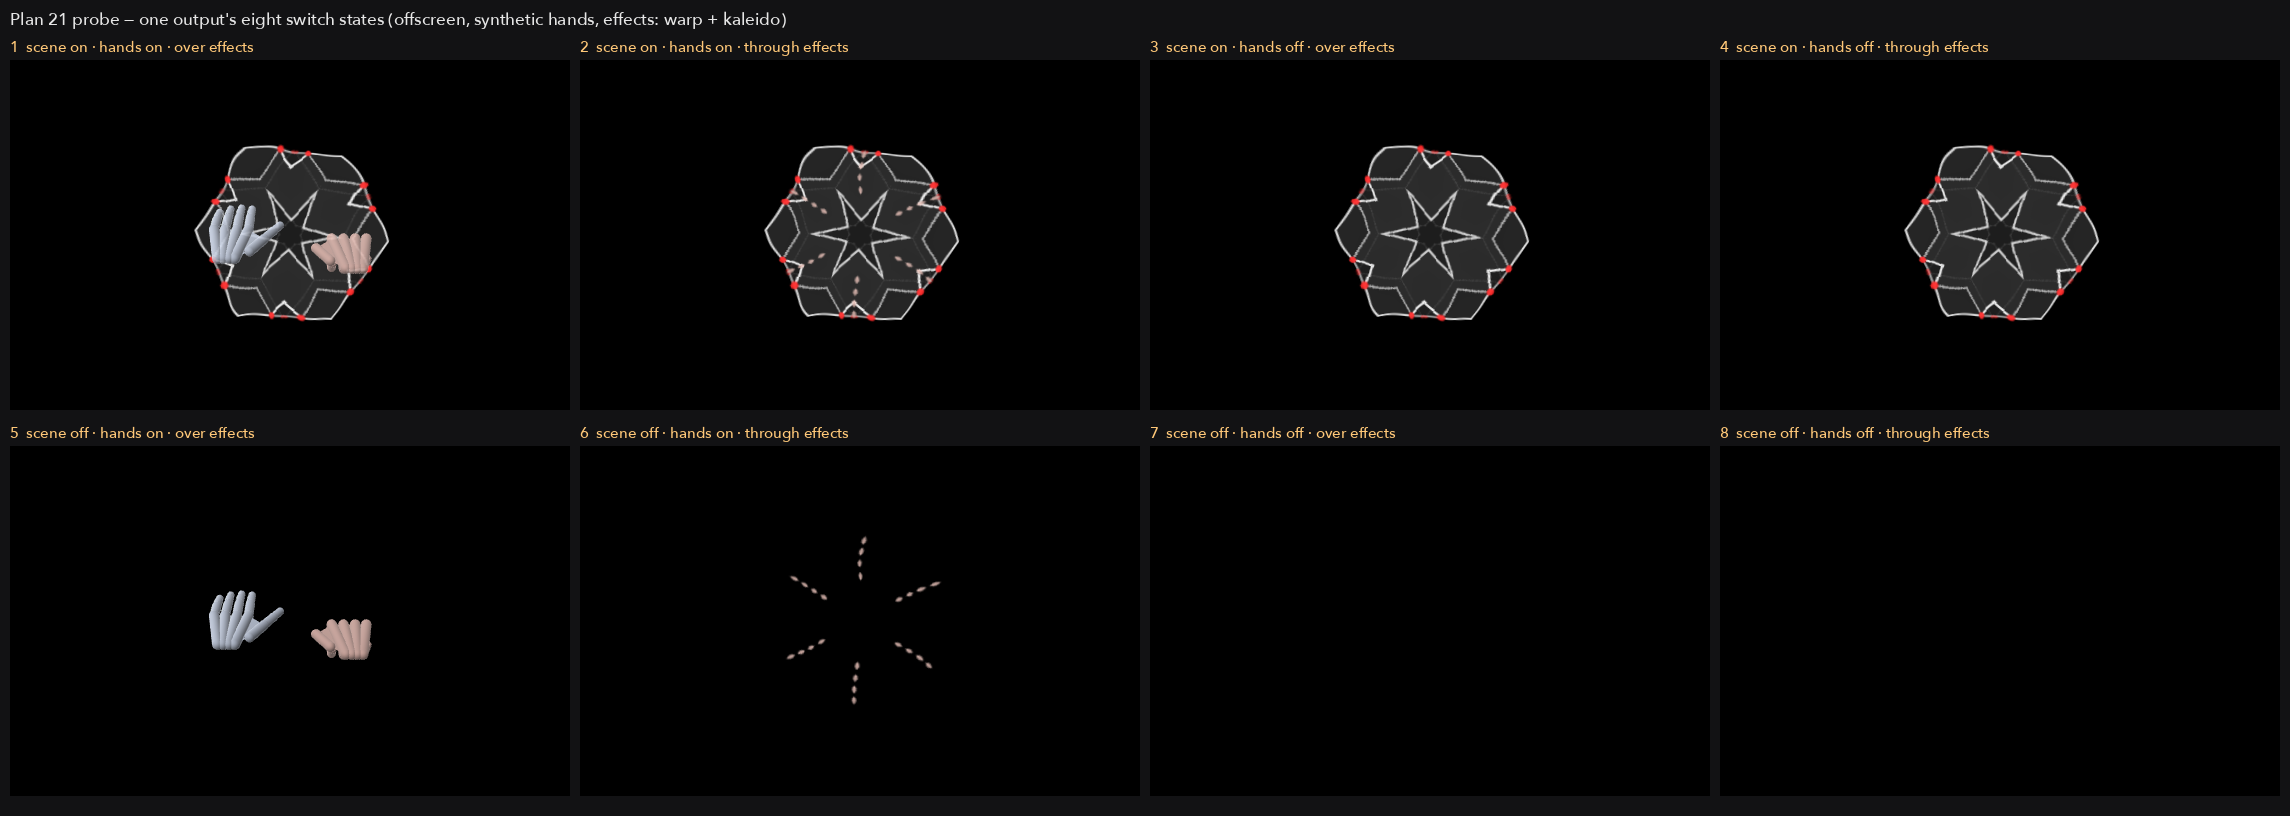
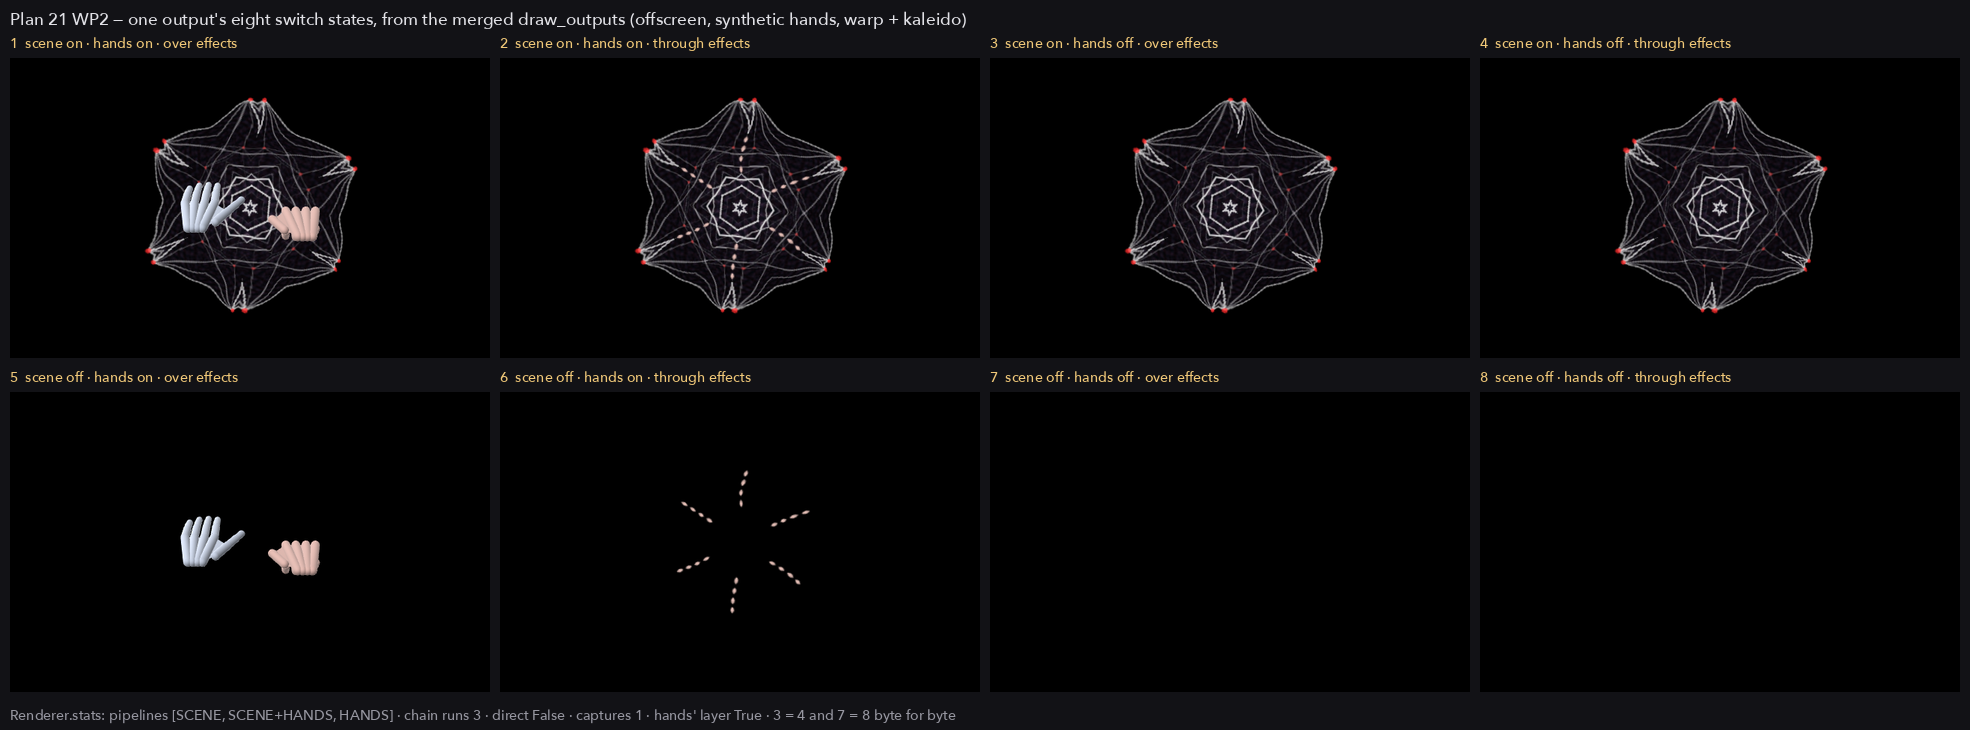
Plan 21 WP2 demo: eight-states.png from the merged code, through-two-outputs.png, compose-timing.txt
eight-states.png replaces the plan's probe render: one output's eight
states drawn by draw_outputs (warp + kaleido, synthetic hands). The
glass with the hands over beside the projector with them through, guide
beside each hand (unbent on both). Frame time at 1080p on this M3 Max.

diff --git a/hyperspace-python/tools/outputs_shots.py b/hyperspace-python/tools/outputs_shots.py
@@ -9,6 +9,9 @@ projector is involved: the sheets show what the renderer writes into
 each output's framebuffer, not how it looks on the rig.
 
     uv run python tools/outputs_shots.py compose   # WP1: outputs-compose.png
+    uv run python tools/outputs_shots.py eight     # WP2: eight-states.png
+    uv run python tools/outputs_shots.py through   # WP2: through-two-outputs.png
+    uv run python tools/outputs_shots.py timing    # WP2: compose-timing.txt
 
 writes into docs/plans/assets/21-outputs-and-the-hands/.
 """
@@ -45,21 +48,31 @@ INK = (225, 225, 230)
 DIM_INK = (150, 150, 160)
 
 
-def hands() -> NS:
-    """Two synthetic hands, as tests/test_ghost.py feeds the ghost."""
+def hands(guide: bool = False) -> NS:
+    """Two synthetic hands, as tests/test_ghost.py feeds the ghost; with
+    `guide`, the axes a guide reads (a HandsIO with no camera)."""
     sk = {"left": skeleton(hand("left", "open", (-90.0, 210.0, 0.0))),
           "right": skeleton(hand("right", "fist", (90.0, 200.0, 10.0)))}
-    return NS(skeleton=sk, cfg={"mode": "desktop"})
+    if not guide:
+        return NS(skeleton=sk, cfg={"mode": "desktop"})
+    from hyperspace.hands import HandSettings, HandsIO
+
+    io = HandsIO(HandSettings.from_config({}), {}, source=NS(latest=lambda: (0, 0.0, {})),
+                 out=NS(send=lambda m: None))
+    for st in io.state:
+        st.follow.y = 0.7
+    return NS(skeleton=sk, cfg={"mode": "desktop"}, axes=io.axes, state=io.state,
+              gates=io.gates)
 
 
-def renderer(ctx, effects=("warp",), **values) -> Renderer:
+def renderer(ctx, effects=("warp",), guide=0, **values) -> Renderer:
     fx = FxState()
     for n in effects:
         fx.values[n]["on"] = True
         fx.values[n].update(values.get(n, {}))
     r = Renderer(ctx, fx=fx)
-    r.ghost.state.on, r.ghost.state.alpha = True, 1.0
-    r.ghost.source = hands()
+    r.ghost.state.on, r.ghost.state.alpha, r.ghost.state.guide = True, 1.0, guide
+    r.ghost.source = hands(guide=bool(guide))
     return r
 
 
@@ -134,13 +147,127 @@ def compose(ctx) -> Path:
     return path
 
 
+EIGHT = [O.Switches(scene=a, hands=b, through=c)
+         for a in (True, False) for b in (True, False) for c in (False, True)]
+
+
+def _state_label(k: int, sw: O.Switches) -> str:
+    return (f"{k}  scene {'on' if sw.scene else 'off'} · hands {'on' if sw.hands else 'off'}"
+            f" · {'through' if sw.through else 'over'} effects")
+
+
+def eight(ctx) -> Path:
+    """One output's eight switch states, drawn as eight outputs of one
+    frame by draw_outputs (warp + kaleido on)."""
+    tw, th = FW * 3 // 4, FH * 3 // 4
+    pad, head = 10, 24
+    small, title = _font(14), _font(17)
+    r = renderer(ctx, effects=("warp", "kaleido"))
+    views = [O.View(sw, (FW, FH), target=target(ctx, (FW, FH))) for sw in EIGHT]
+    frames(ctx, r, views)
+    sheet = Image.new("RGB", (pad + 4 * (tw + pad), 34 + 2 * (head + th + pad) + 28), BG)
+    d = ImageDraw.Draw(sheet)
+    d.text((pad, 8), "Plan 21 WP2 — one output's eight switch states, from the merged "
+           "draw_outputs (offscreen, synthetic hands, warp + kaleido)", fill=INK, font=title)
+    for k, v in enumerate(views):
+        x, y = pad + (k % 4) * (tw + pad), 34 + (k // 4) * (head + th + pad)
+        d.text((x, y), _state_label(k + 1, v.switches), fill=(240, 200, 120), font=small)
+        sheet.paste(pixels(v.target).resize((tw, th), Image.LANCZOS), (x, y + head))
+    d.text((pad, sheet.height - 24), stats_line(r) + " · 3 = 4 and 7 = 8 byte for byte",
+           fill=DIM_INK, font=small)
+    path = OUT / "eight-states.png"
+    sheet.save(path)
+    return path
+
+
+def through(ctx) -> Path:
+    """The glass with the hands over the effects beside the projector with
+    them through, guide on (beside each hand: never bent, fork F3)."""
+    pad, head = 14, 26
+    small, title = _font(14), _font(17)
+    r = renderer(ctx, effects=("warp", "kaleido"), guide=1)
+    glass = O.View(O.Switches(), (FW, FH), target=target(ctx, (FW, FH)))
+    proj = O.View(O.Switches(through=True), (FW, FH), target=target(ctx, (FW, FH)))
+    frames(ctx, r, [glass, proj])
+    sheet = Image.new("RGB", (pad + 2 * (FW + pad), 34 + head + FH + 40), BG)
+    d = ImageDraw.Draw(sheet)
+    d.text((pad, 8), "Plan 21 WP2 — glass: hands over the effects · projector: hands through "
+           "them (offscreen, synthetic hands, warp + kaleido, guide beside)", fill=INK,
+           font=title)
+    for k, (v, lab) in enumerate(((glass, "output 1 'glass' — hands over the effects"),
+                                  (proj, "output 2 'projector' — hands through the effects"))):
+        x = pad + k * (FW + pad)
+        d.text((x, 34), lab, fill=(240, 200, 120), font=small)
+        sheet.paste(pixels(v.target), (x, 34 + head))
+    d.text((pad, 34 + head + FH + 10), stats_line(r) + f" · readout layer {r.stats['readout']}",
+           fill=DIM_INK, font=small)
+    path = OUT / "through-two-outputs.png"
+    sheet.save(path)
+    return path
+
+
+def timing(ctx, n: int = 120) -> Path:
+    """Frame time at 1920×1080 (the first output 4× MSAA, as the window
+    is): one default view, two that agree, two that disagree (hands over
+    vs through). Median and 90th percentile of `n` frames, each ended by
+    ctx.finish(), after 20 warm-up frames."""
+    import platform
+    import statistics
+    import subprocess
+    import time
+
+    size = (1920, 1080)
+
+    def fb(samples):
+        return ctx.framebuffer(color_attachments=[ctx.renderbuffer(size, 4, samples=samples)])
+
+    cases = [
+        ("one view, default (Renderer.draw's path)", [O.Switches()]),
+        ("two views agreeing (scene + hands over)", [O.Switches(), O.Switches()]),
+        ("two views disagreeing (hands over | hands through)",
+         [O.Switches(), O.Switches(through=True)]),
+    ]
+    try:
+        chip = subprocess.run(["sysctl", "-n", "machdep.cpu.brand_string"], capture_output=True,
+                              text=True, check=False).stdout.strip()
+    except OSError:
+        chip = platform.processor()
+    lines = [f"Plan 21 WP2 — compose timing, {size[0]}×{size[1]}, {chip}, GL renderer "
+             + ctx.info["GL_RENDERER"],
+             ("standalone context, offscreen targets (first 4x MSAA, others single-sampled), "
+              "warp + kaleido on, two synthetic hands; ms per frame, each frame ended by "
+              f"glFinish; {n} frames after 20 warm-up"), ""]
+    for label, sws in cases:
+        r = renderer(ctx, effects=("warp", "kaleido"))
+        views = [O.View(sw, size, target=fb(4 if k == 0 else 0)) for k, sw in enumerate(sws)]
+        s = view_state()
+        times = []
+        for k in range(n + 20):
+            s.ang = [a + 0.01 for a in s.ang]
+            t0 = time.perf_counter()
+            r.draw_outputs(s, 1920, 1080, 1.0, views, t_now=2.0 + k / 60)
+            ctx.finish()
+            if k >= 20:
+                times.append((time.perf_counter() - t0) * 1000)
+        times.sort()
+        lines.append(f"{label:52s} median {statistics.median(times):6.2f} ms · "
+                     f"p90 {times[int(0.9 * len(times))]:6.2f} ms · chain runs "
+                     f"{r.stats['chain_runs']} · pipelines {[O.NAMES[p] for p in r.stats['pipelines']]}")
+    path = OUT / "compose-timing.txt"
+    path.write_text("\n".join(lines) + "\n")
+    return path
+
+
 def main() -> None:
     ap = argparse.ArgumentParser(description=__doc__.splitlines()[0])
-    ap.add_argument("what", choices=["compose"])
+    ap.add_argument("what", choices=["compose", "eight", "through", "timing", "all"])
     args = ap.parse_args()
     ctx = moderngl.create_context(standalone=True)
-    if args.what == "compose":
-        print(compose(ctx))
+    OUT.mkdir(parents=True, exist_ok=True)
+    for name, fn in (("compose", compose), ("eight", eight), ("through", through),
+                     ("timing", timing)):
+        if args.what in (name, "all"):
+            print(fn(ctx))
 
 
 if __name__ == "__main__":
